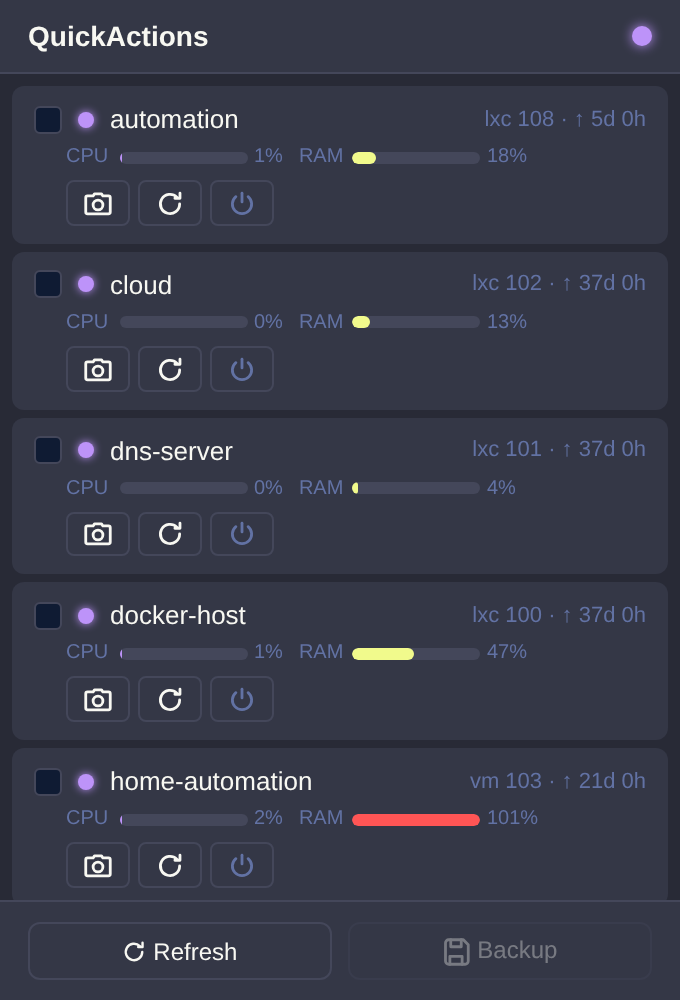
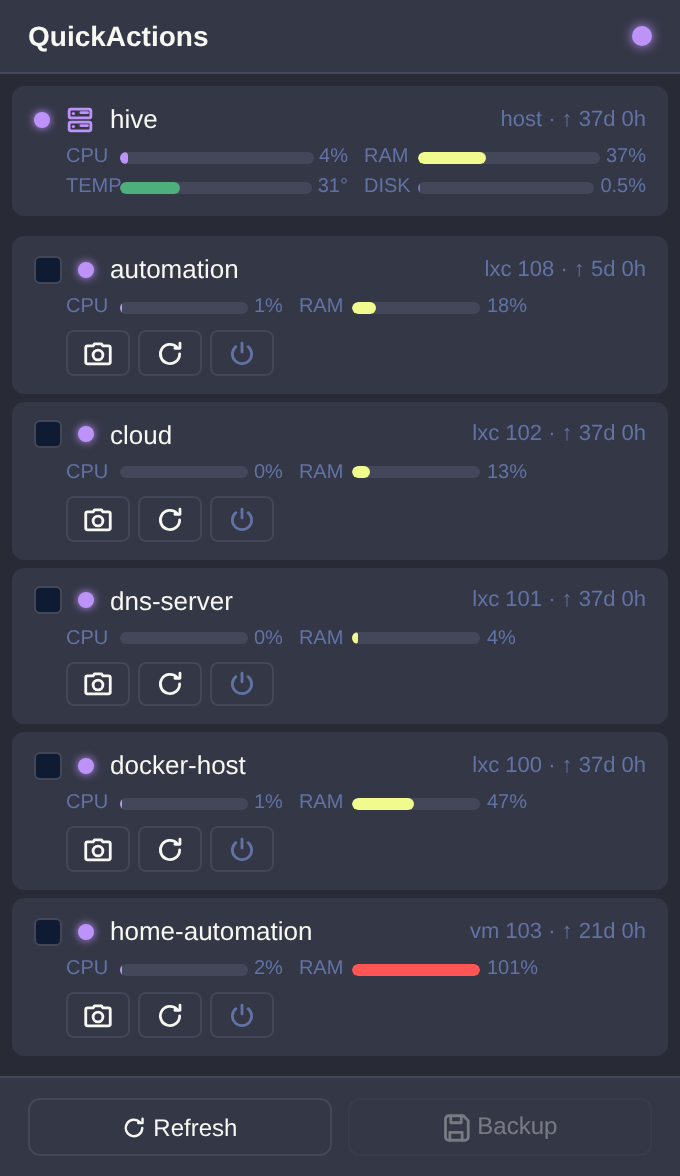
Release v0.4.0: host system monitor
- Host entry pinned above the guests: CPU, RAM, CPU temp (traffic-light),
  rootfs disk usage — display only, live on auto-refresh
- 2×2 bar layout, disk % with one decimal below 1% + absolute tooltip
- CPU temp from sensorsOutput (coretemp/k10temp/zenpower, Package id 0)
- Updated all 9 theme screenshots (host entry included), README + CHANGELOG

diff --git a/.screenshot-mock/popup-mock.html b/.screenshot-mock/popup-mock.html
@@ -21,6 +21,9 @@
   <!-- Error -->
   <div id="error" class="hidden"></div>
 
+  <!-- Host (PVE node) system monitor — display only, pinned above the guests -->
+  <div id="host-list"></div>
+
   <!-- Resource list -->
   <div id="resource-list"></div>
 
@@ -72,6 +75,25 @@
               { node: "hive", type: "qemu", vmid: 103, name: "home-automation", status: "running", cpu: 0.02, mem: 1.01 * 4 * GB,  maxmem: 4 * GB,  uptime: 21 * 86400 }
             ];
             return Promise.resolve({ success: true, data: guests });
+          }
+          if (message.action === "getHostStatus") {
+            // Same values as the real HIVE host (live data, 2026-11-08)
+            const GB = 1024 ** 3;
+            const TB = 1024 ** 4;
+            return Promise.resolve({
+              success: true,
+              data: [{
+                node: "hive",
+                status: "online",
+                cpu: 0.04,                 // 4%
+                mem: 0.37 * 64 * GB,        // 37%
+                maxmem: 64 * GB,
+                uptime: 37 * 86400,         // 37d — matches the guests
+                pveversion: "pve-manager/9.2.24/66bc407c6d90a67a",
+                disk: { used: 13 * GB, total: 2.6 * TB },  // → 0.5%
+                cpuTemp: 31                 // °C
+              }]
+            });
           }
           return Promise.resolve({ success: false, error: "Unknown action" });
         },

diff --git a/CHANGELOG.md b/CHANGELOG.md
@@ -1,21 +1,28 @@
 # Changelog
 
-## v0.3.2 — Host System Monitor RC (2026-11-08, unlisted)
-
-> **Note:** Unlisted release candidate for the v0.4.0 feature line — identical
-> versioning scheme as 0.3.1 (self-distribution build, not part of the store release).
+## v0.4.0 — Host System Monitor (2026-11-08)
 
 - **Host system monitor** — the PVE node itself now appears at the top of the
   popup: CPU load, RAM usage, CPU package temperature (°C) and rootfs disk
-  usage, all with bars, live on auto-refresh. Display only — no power buttons,
-  no backup checkbox (host control may come later)
-- CPU temperature from `lm-sensors` (via `/nodes/{node}/status` →
+  usage, live on auto-refresh. Display only — no power buttons, no backup
+  checkbox (host control may come in a later version)
+- **2×2 bar layout** — the four host metrics are arranged in two rows of two
+  bars each, matching the guest entries' visual language
+- **CPU temperature from `lm-sensors`** (via `/nodes/{node}/status` →
   `sensorsOutput`): prefers `Package id 0`/`Tctl`/`Tdie` on coretemp/k10temp/
   zenpower chips, traffic-light colors (green < 60 °C, yellow < 75 °C, red
   above), N/A if no CPU sensor is available
-- Multi-node clusters: one host entry per node; offline nodes show N/A bars
-- New server-rack icon distinguishes the host from the guests
-- PVE version as tooltip on the host name, uptime in the meta line
+- **Disk usage with context** — one decimal place below 1% (a rootfs that is
+  0.5% full no longer rounds to a useless "0%"), absolute values
+  (used / total) as tooltip on the DISK bar
+- **Multi-node clusters** — one host entry per node; offline nodes show N/A
+  bars; a failed per-node status call degrades gracefully to partial data
+- New server-rack icon distinguishes the host from the guests; PVE version
+  as tooltip on the host name, uptime in the meta line
+- Updated all 9 theme screenshots (host entry included)
+
+> **Note:** v0.3.2 and v0.3.3 were unlisted release candidates of this feature
+> line with identical code paths — not part of the store release history.
 
 ## v0.3.0 — Public AMO Release (2026-09-19)
 

diff --git a/README.md b/README.md
@@ -41,6 +41,7 @@ A Firefox extension that puts your entire Proxmox VE cluster in your toolbar —
 
 ## Features
 
+- **Host system monitor** — the PVE node itself at the top of the popup: CPU load, RAM, CPU package temperature (°C) and rootfs disk usage — display only, live on auto-refresh
 - **Live overview** — All guests of your Proxmox cluster with status, uptime, CPU and RAM usage
 - **Power actions** — Start, reboot and shutdown directly from the popup (with confirmation dialog)
 - **Snapshots** — One click creates a snapshot with automatic naming
@@ -48,7 +49,7 @@ A Firefox extension that puts your entire Proxmox VE cluster in your toolbar —
 - **Cluster support** — Multi-node environments (backups are grouped per node automatically)
 - **9 themes** — Dark, Light, Nord, OLED (True Black), Dracula, Catppuccin Mocha, Tokyo Night, Solarized Dark & Monochrome — switchable in the settings
 - **Flexible sorting** — Alphabetically, by ID or by status, with running guests first (optional)
-- **Auto-refresh** — CPU and RAM values update automatically (configurable 5–60 seconds or disabled)
+- **Auto-refresh** — Host and guest values update automatically (configurable 5–60 seconds or disabled)
 
 ## Setup
 
